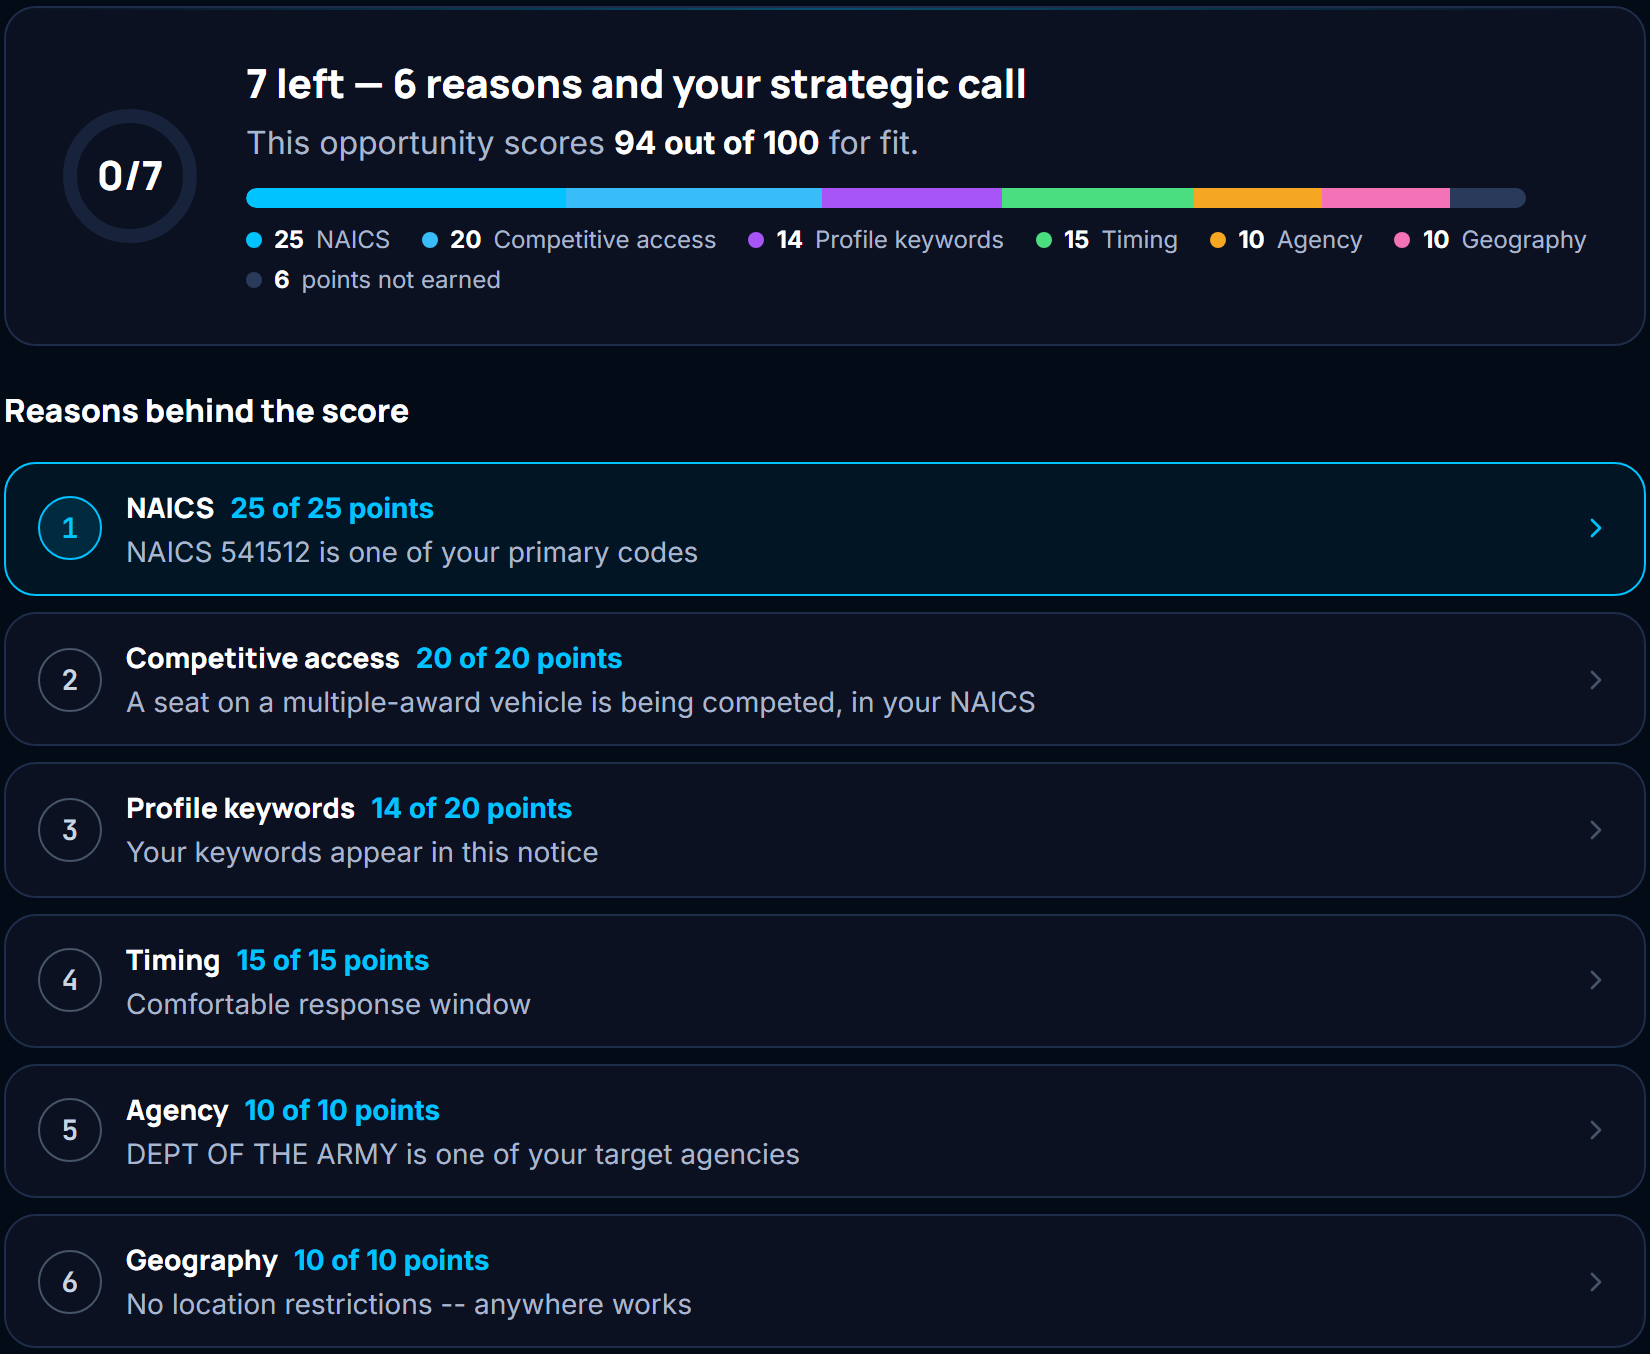
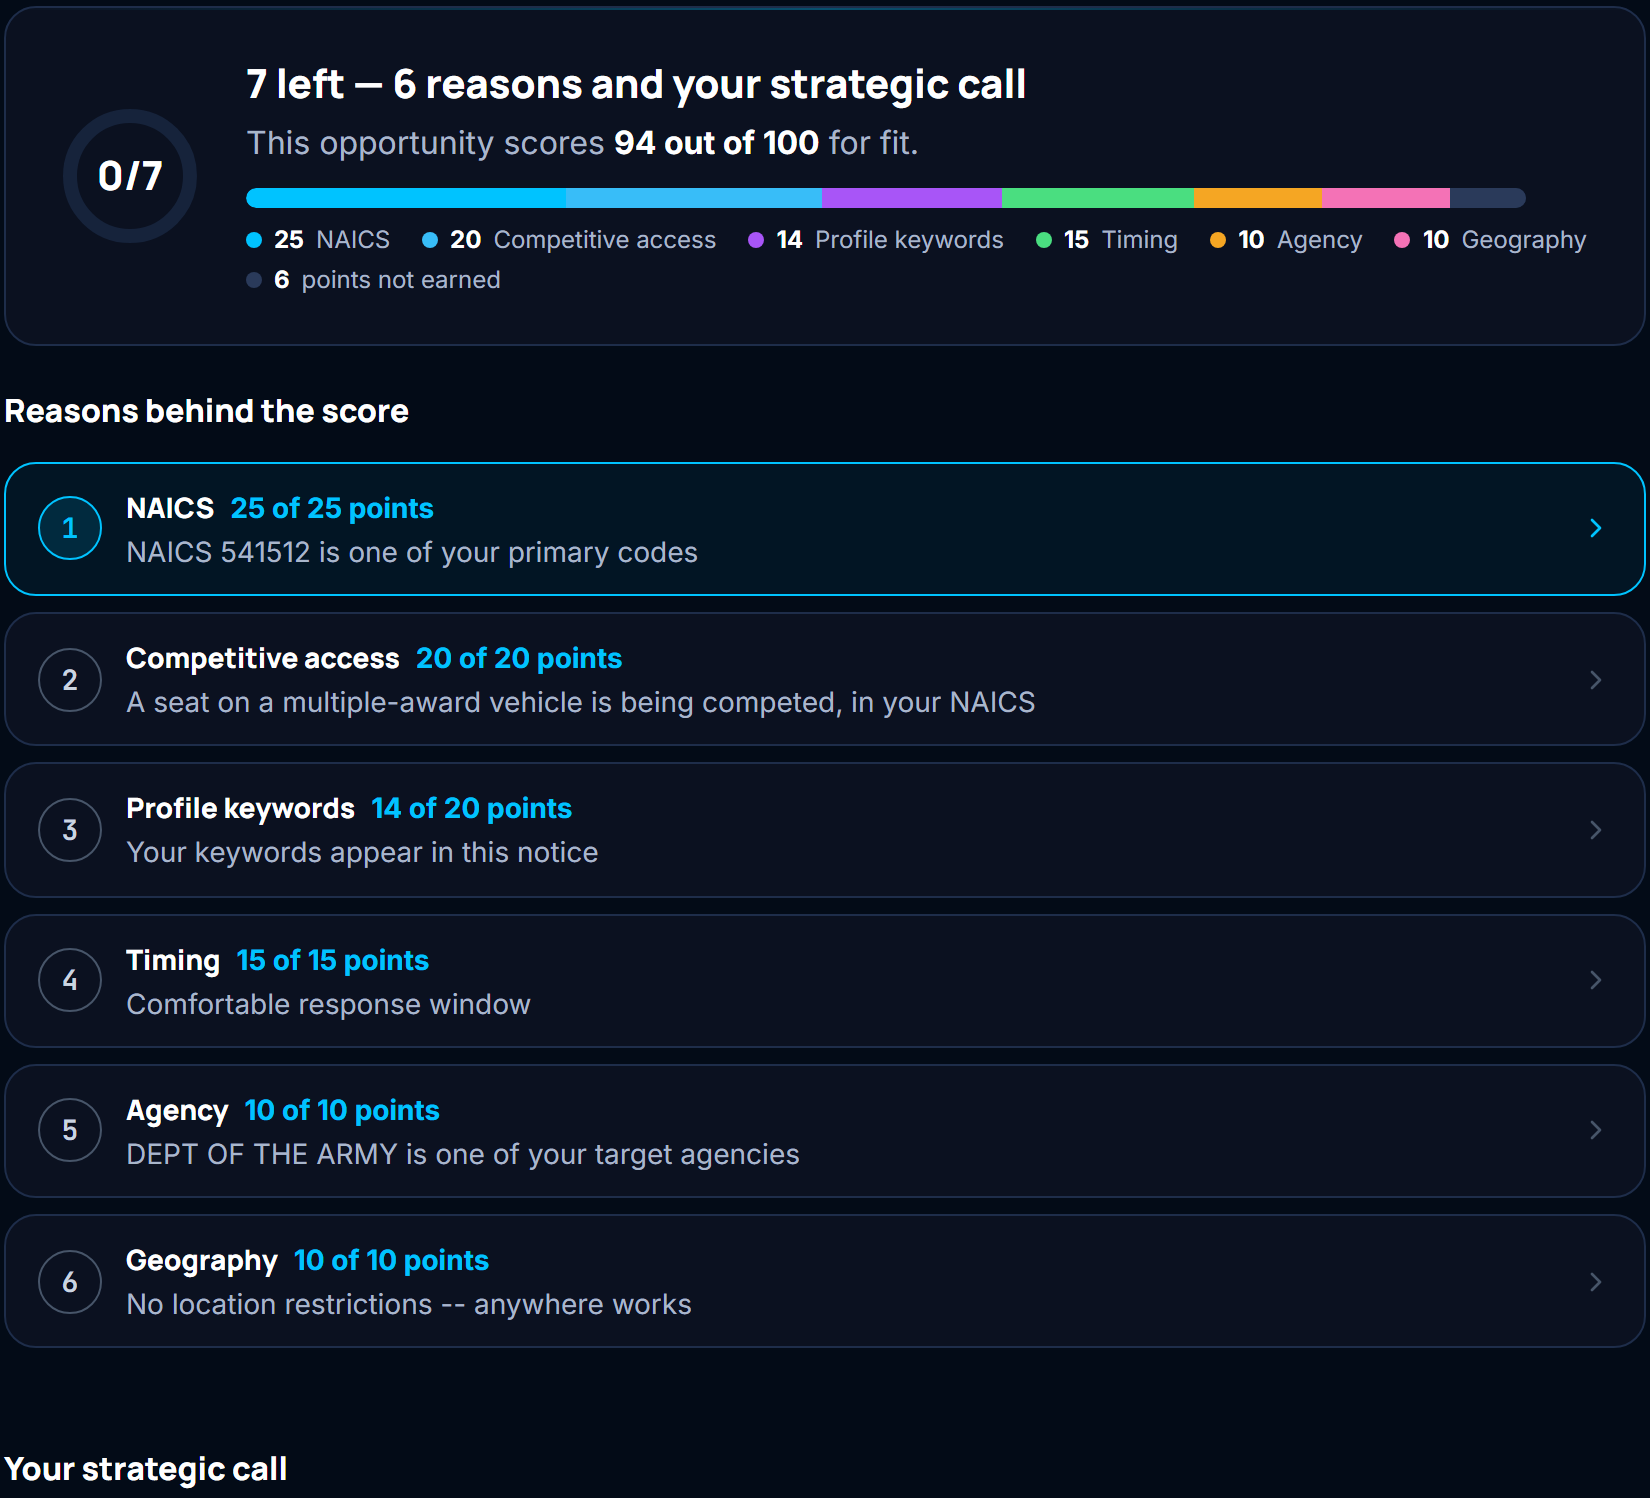
Home: strategic call in the fit image; full Bid Handoff screen with new text
Section 3's Alignment crop now runs through the strategic call (growth
priorities). Section 4 shows the full Bid Handoff screen from the V2 rig and
its text now follows that screen: the five phases as one supporting line,
then your recorded call, what needs to happen next, and requirements by
work package, closing on "a checklist, not the raw notice".

diff --git a/src/pages/Home.tsx b/src/pages/Home.tsx
@@ -15,25 +15,16 @@ const focusRing = 'focus-visible:outline-none focus-visible:ring-2 focus-visible
 const DISCOVERY_TO = '/signup/?promo=fall2026';
 const ANALYZER_TO = '/tools/sam-gov-notice-analyzer/';
 
-// The five phases of the pursuit workflow, in the product's own words
-// (pursuit-v2 JourneyV2: the question each phase answers), ending in the Bid Handoff.
-const STAGES = [
-  { name: 'Triage',      q: 'Should we keep going?' },
-  { name: 'Eligibility', q: 'Can we actually bid this?' },
-  { name: 'Alignment',   q: 'Is this strategically worth pursuing?' },
-  { name: 'Viability',   q: 'What will it take to win?' },
-  { name: 'Decision',    q: 'Go or No-Go — recorded with the rationale.' },
-];
 
-// The example shown in the Decision screenshot: the V2 journey preview rig walked on the
-// TEIS IV On-Ramp notice (public SAM.gov data) with example answers. The recommendation text
-// and the requirement counts are the product's own output. Nothing here is a customer's data.
+// The example shown in the Bid Handoff screenshot: the V2 journey preview rig walked on the
+// TEIS IV On-Ramp notice (public SAM.gov data) with example answers; the rationale is the
+// example's recorded text and the counts are the product's own output. Not a customer's data.
 const DECISION_EXAMPLE = {
   title: 'TEIS IV On-Ramp Opportunity',
   agency: 'Department of the Army',
   call: 'Go',
-  why: 'None of your answers says no or needs attention. Built only from your own answers — the call is yours.',
-  handoff: '53 eligibility requirements reviewed, 517 proposal and delivery requirements carried forward, and the submission rule included in the Bid Handoff.',
+  why: 'Primary NAICS and past performance match the on-ramp; no eligibility gaps, a comfortable response window, and a seat on a vehicle we want.',
+  handoff: '570 requirements identified across five work packages, one submission rule to review, and 15 source documents on record.',
 };
 
 const FAQ = [
@@ -166,7 +157,7 @@ export default function Home() {
 
               <ol className="mt-10 space-y-8">
                 {[
-                  { title: 'Why it fits',        body: 'Six scored reasons — NAICS, competitive access, your keywords, timing, agency, geography — add up to the fit score. Every point is explained in plain language.' },
+                  { title: 'Why it fits',        body: 'Six scored reasons — NAICS, competitive access, your keywords, timing, agency, geography — add up to the fit score, each explained in plain language. Then you make the strategic call: how does it support your growth priorities?' },
                   { title: 'What needs checking', body: 'Points not earned show where the match is weaker, and you can challenge any reason you disagree with. A challenged reason stays flagged through to the decision.' },
                   { title: 'Where it came from',  body: 'Every reason opens to its evidence: what the notice says beside what your profile says, so you can see the match for yourself.' },
                 ].map(({ title, body }, i) => (
@@ -188,13 +179,13 @@ export default function Home() {
             <FlyIn delay="delay-150" className="w-full min-w-0">
               <ZoomImage
                 src="/fit-example.png"
-                alt="HE Pursuit Alignment phase for an example pursuit: a fit score of 94 out of 100 and the six scored reasons behind it — NAICS, competitive access, profile keywords, timing, agency, and geography"
+                alt="HE Pursuit Alignment phase for an example pursuit: a fit score of 94 out of 100, the six scored reasons behind it — NAICS, competitive access, profile keywords, timing, agency, geography — and the strategic call on growth priorities"
                 width={1650}
-                height={1354}
+                height={1498}
                 zoomMinWidthClass="min-w-[825px]"
                 label="Example pursuit"
               />
-              <p className="mt-3 text-xs text-[#8b9bb4] font-body text-center">The Alignment phase of an example pursuit: a public SAM.gov notice with example answers.</p>
+              <p className="mt-3 text-xs text-[#8b9bb4] font-body text-center">The Alignment phase of an example pursuit — score, six reasons, and your strategic call — on a public SAM.gov notice with example answers.</p>
             </FlyIn>
           </div>
         </div>
@@ -210,24 +201,27 @@ export default function Home() {
                 Decide <span className="he-gradient-text">before</span> you invest proposal time.
               </h2>
               <p className="mt-5 text-lg text-[#a9b6cb] font-body leading-relaxed">
-                When a match looks worth it, run it through the five-phase bid/no-bid workflow — and finish with a handoff your proposal team can work from.
+                Five phases — Triage, Eligibility, Alignment, Viability, Decision — each answer one question about the notice and end in a recorded Go or No-Go. What your proposal team receives is the Bid Handoff.
               </p>
 
-              <ol className="mt-8 space-y-4">
-                {STAGES.map(({ name, q }, i) => (
-                  <li key={name} className="grid grid-cols-[28px_minmax(0,1fr)] gap-x-3">
-                    <span className="font-headline font-bold text-sm text-[#00c3ff] tabular-nums pt-0.5" aria-hidden="true">0{i + 1}</span>
-                    <p className="text-[15px] lg:text-base font-body leading-relaxed">
-                      <span className="font-headline font-bold text-white">{name}</span>
-                      <span className="text-[#a9b6cb]"> — {q}</span>
-                    </p>
+              <ol className="mt-10 space-y-8">
+                {[
+                  { title: 'Your recorded call',            body: 'Go or No-Go, your rationale word for word, and the response deadline in view.' },
+                  { title: 'What needs to happen next',     body: 'Only the work your answers call for — conditions to meet, gaps to close, submission rules to follow — each with an owner.' },
+                  { title: 'Requirements by work package',  body: 'Every requirement in the notice, traced to its source section and sorted into proposal, eligibility, performance, deliverables, and administrative packages with a suggested role for each.' },
+                ].map(({ title, body }, i) => (
+                  <li key={title} className="flex items-start gap-4">
+                    <span className="w-8 h-8 rounded-[50%] bg-[#00c3ff] text-[#030B17] font-headline font-black text-sm flex items-center justify-center shrink-0 tabular-nums" aria-hidden="true">{i + 1}</span>
+                    <div className="pt-0.5">
+                      <h3 className="font-headline font-bold text-lg lg:text-xl text-white tracking-tight leading-snug">{title}</h3>
+                      <p className="mt-1.5 text-[15px] lg:text-base text-[#a9b6cb] font-body leading-relaxed">{body}</p>
+                    </div>
                   </li>
                 ))}
               </ol>
 
-              <p className="mt-8 text-[15px] lg:text-base text-[#a9b6cb] font-body leading-relaxed">
-                <span className="font-headline font-bold text-white">Then the handoff: </span>
-                the recorded decision with its rationale, the work your answers call for, and every requirement from the notice sorted into work packages with a suggested owner for each. Your compliance checklist, ready for proposal planning.
+              <p className="mt-10 text-base lg:text-lg text-white font-body leading-relaxed text-pretty">
+                Your proposal team starts from a checklist, not from the raw notice.
               </p>
             </div>
 
@@ -236,10 +230,10 @@ export default function Home() {
               <FlyIn>
               <ZoomImage
                 src="/decision-example.png"
-                alt="HE Pursuit Decision phase for an example pursuit: the Go recommendation built from your answers, the four recorded phases behind it, and the requirements carried into the Bid Handoff"
-                width={1650}
-                height={1498}
-                zoomMinWidthClass="min-w-[825px]"
+                alt="HE Pursuit Bid Handoff screen for an example pursuit: the recorded Go decision with its rationale, what needs to happen next, the decision record with its sources, and every requirement sorted into work packages with suggested roles"
+                width={1800}
+                height={2972}
+                zoomMinWidthClass="min-w-[900px]"
                 label="Example pursuit"
               />
               </FlyIn>
